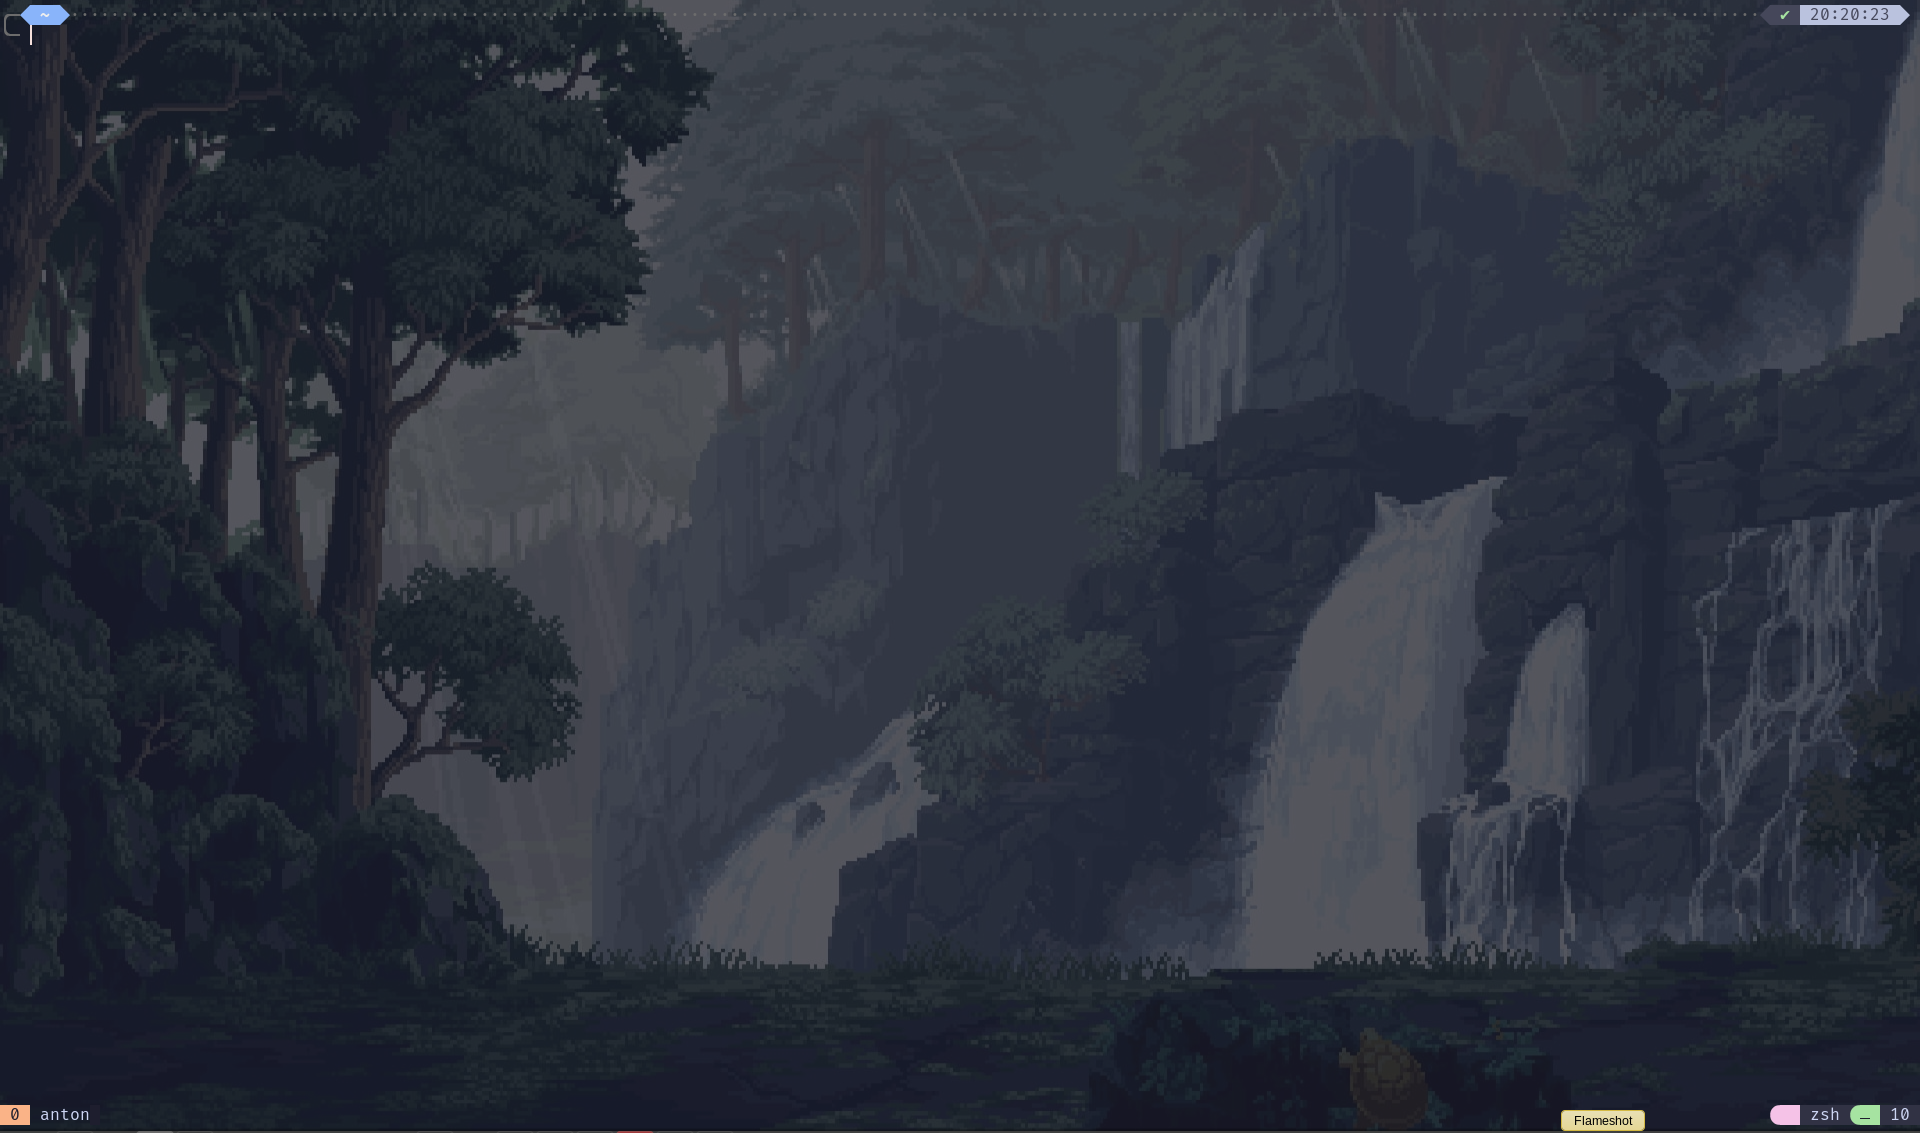
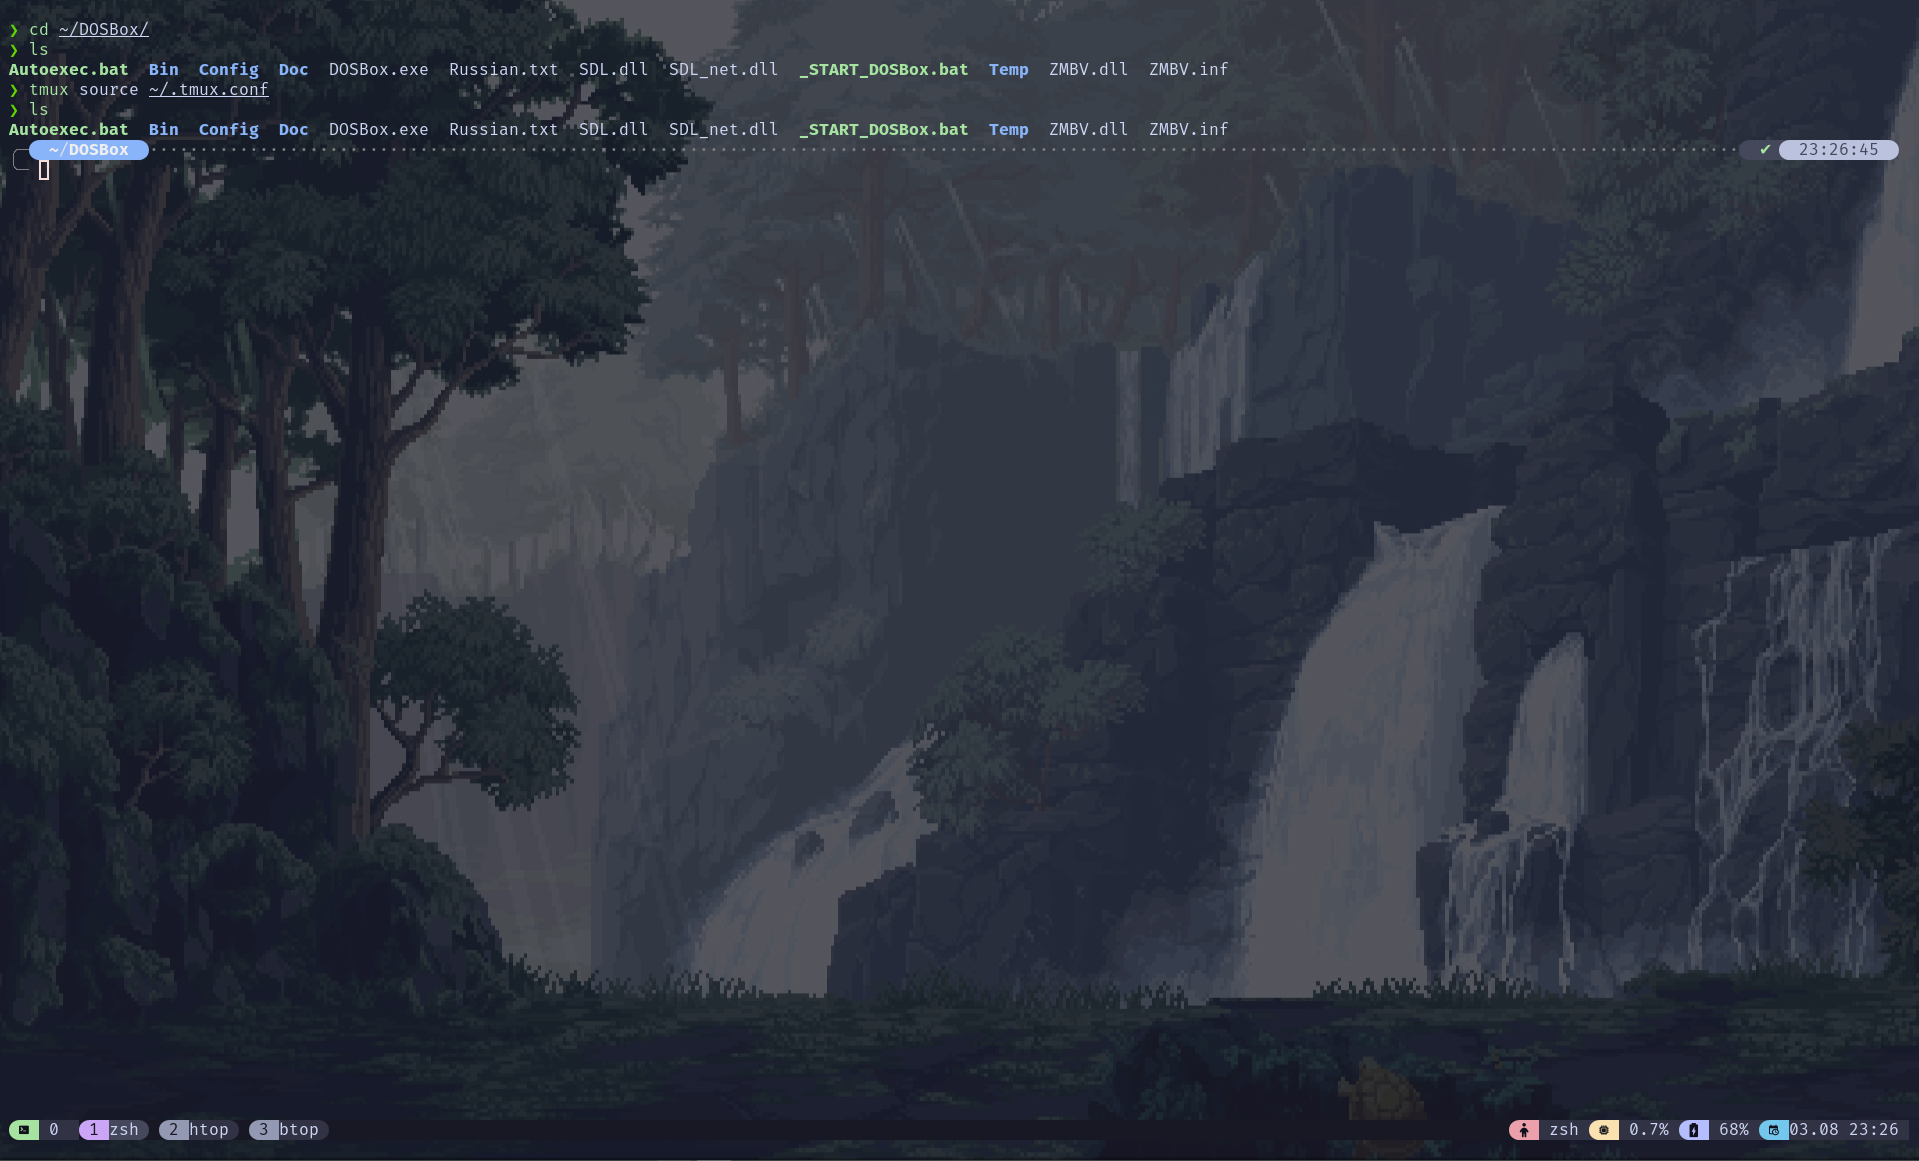
Add tmux config

diff --git a/terminal/README.md b/terminal/README.md
@@ -47,6 +47,8 @@ Zsh and oh-my-zsh
 
 [Cool plugin](https://github.com/catppuccin/tmux)
 
+[My Config with Catppuccin](tmux.conf)
+
 ## Terminal
 
 ### xfce4
